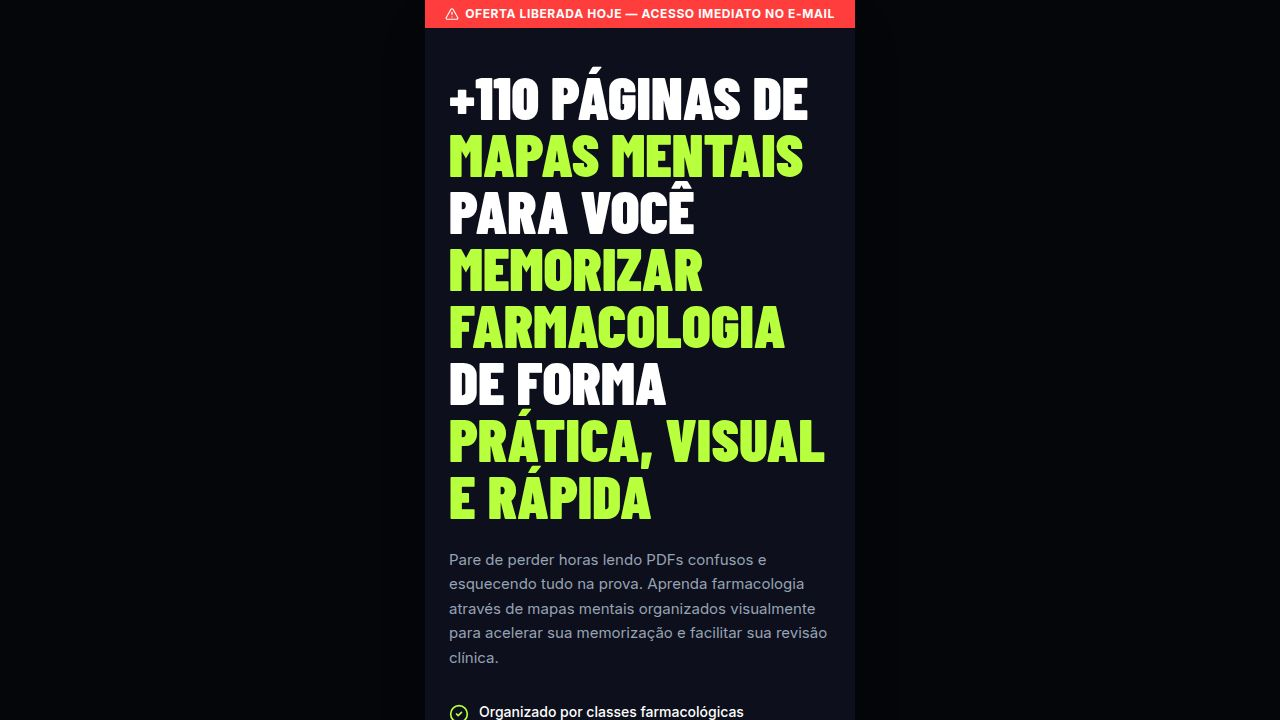
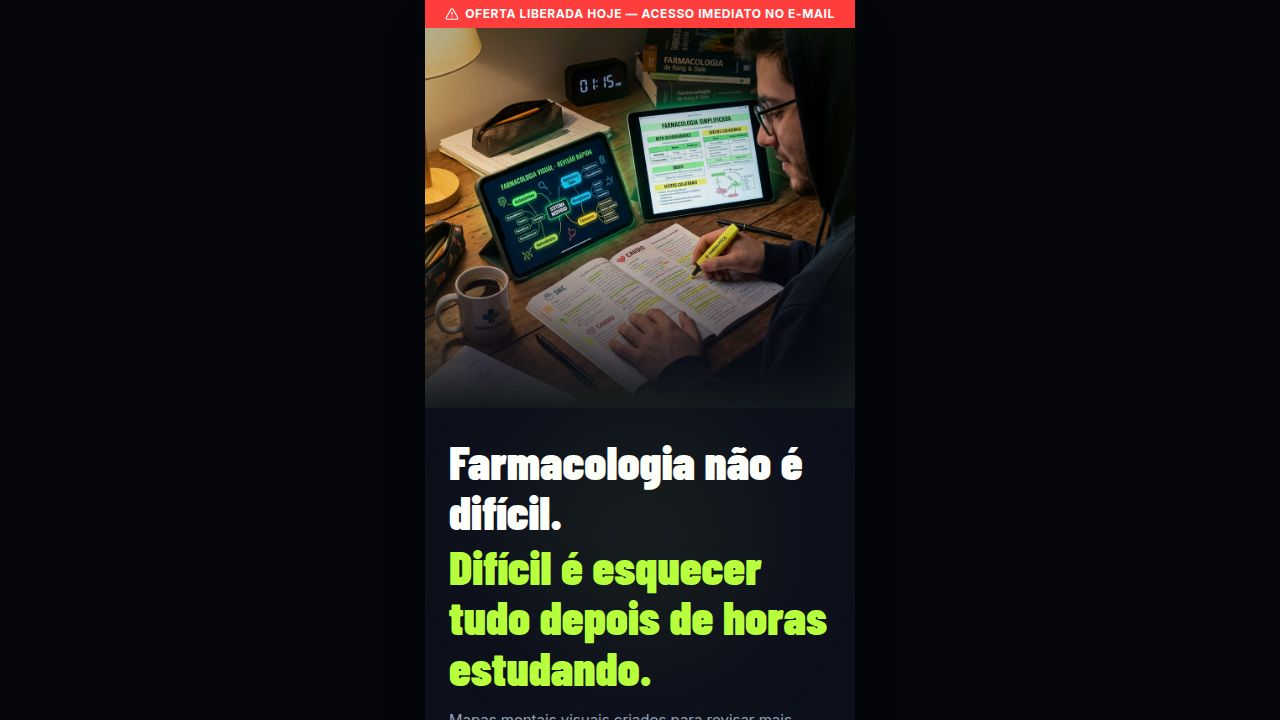
Remove three common study challenges from the page
Remove the grid of study challenges and associated text from the landing page component.

Replit-Commit-Author: Agent
Replit-Commit-Session-Id: da7e6c51-34f5-47ba-8486-7c08db2877dc
Replit-Commit-Checkpoint-Type: full_checkpoint
Replit-Commit-Event-Id: 5237588f-49b4-411a-aff4-cde75cff61af
Replit-Commit-Screenshot-Url: https://storage.googleapis.com/screenshot-production-us-central1/317dd206-884d-4f0c-86c7-ee6b40ad744d/da7e6c51-34f5-47ba-8486-7c08db2877dc/19z1AYM
Replit-Helium-Checkpoint-Created: true

Changed region(s): [[0.3125, 0.0306, 0.6875, 0.7333], [0.3438, 0.7639, 0.6562, 1.0]]

diff --git a/artifacts/farmacologia/src/App.tsx b/artifacts/farmacologia/src/App.tsx
@@ -392,15 +392,6 @@ function LandingPage() {
               <span className="underline decoration-white decoration-4 underline-offset-4">ESQUECER TUDO</span>
             </h2>
 
-            <div className="grid grid-cols-1 gap-2 mb-8 text-center max-w-xs mx-auto">
-              {[
-                "📚 Horas lendo. PDFs gigantes.",
-                "😤 Nomes impossíveis de decorar.",
-                "😰 Revisão sem fim, sem fixar.",
-              ].map((item, i) => (
-                <p key={i} className="text-sm font-semibold opacity-95 bg-white/10 rounded-lg px-4 py-2.5">{item}</p>
-              ))}
-            </div>
             <p className="text-sm font-bold opacity-90 mb-8">O problema não é você. É a forma de estudar.</p>
 
             <CTAButton onClick={scrollToOfertas} className="!bg-[#0D0F1C] !text-primary hover:!bg-black shadow-[0_4px_14px_rgba(0,0,0,0.3)] border-2 border-[#0D0F1C]">